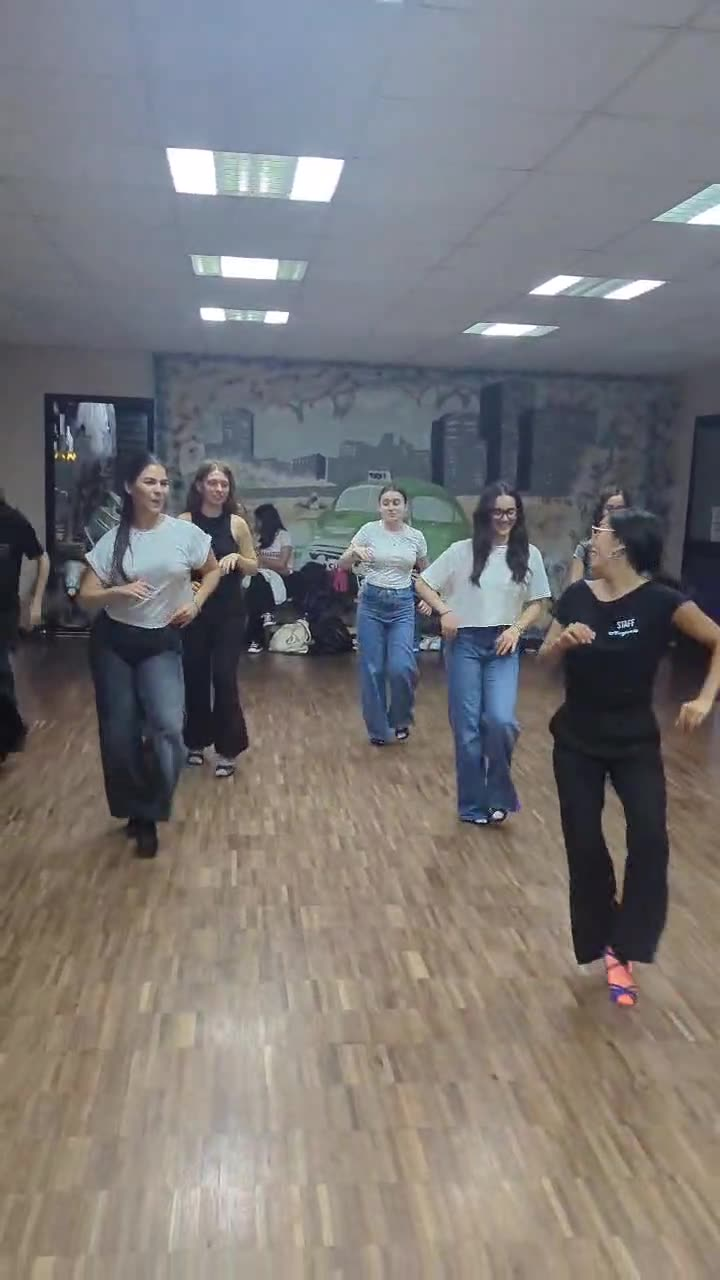
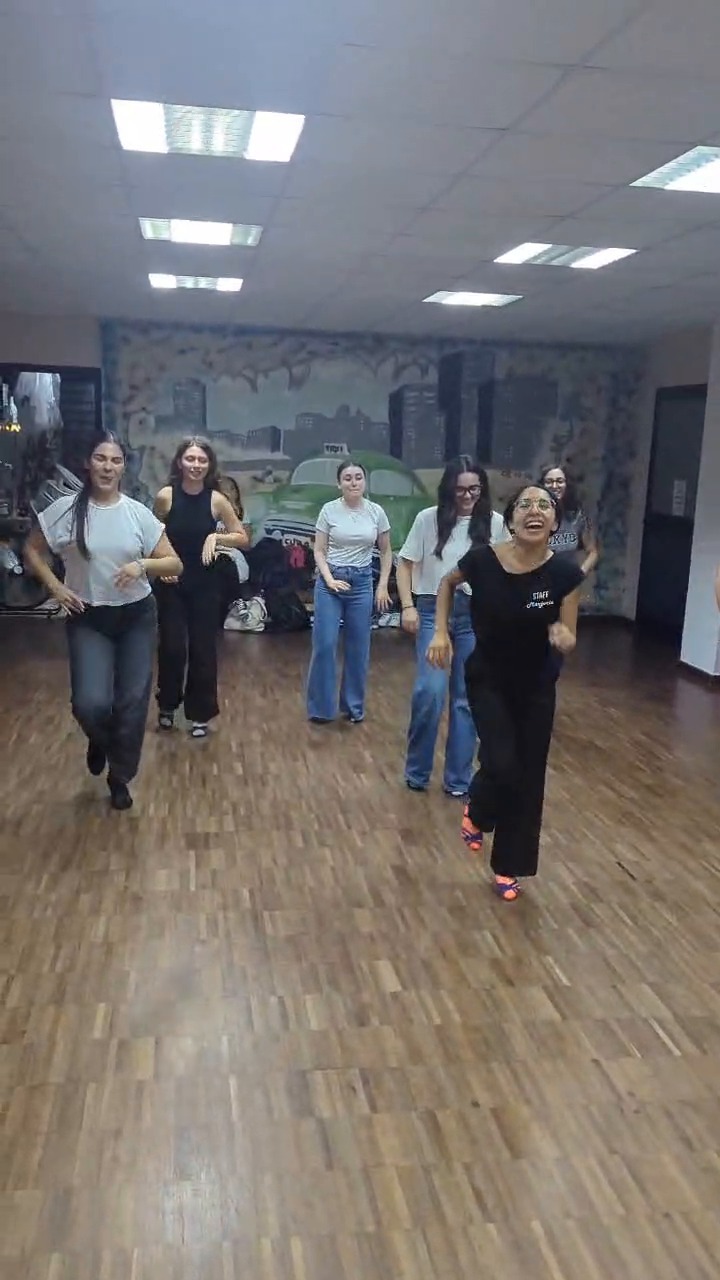
Copertine dei video più nitide: fotogramma più definito, qualità alta
Claude-Session: https://claude.ai/code/session_01MxGryzPcSJfMhEmVpwS4DS

diff --git a/index.html b/index.html
@@ -373,13 +373,13 @@ footer a{color:var(--gold)}
       <div class="vslider rv" aria-roledescription="carousel" aria-label="Video delle lezioni">
         <div class="vtrack" id="vtrack">
           <div class="slide" role="group" aria-roledescription="slide" aria-label="Video 1 di 3">
-            <div class="phone"><video controls playsinline preload="none" poster="/video/lezione-poster.jpg" width="720" height="1280"><source src="/video/lezione.mp4" type="video/mp4"></video></div>
+            <div class="phone"><video controls playsinline preload="none" poster="/video/lezione-poster.jpg?v=2" width="720" height="1280"><source src="/video/lezione.mp4" type="video/mp4"></video></div>
           </div>
           <div class="slide" role="group" aria-roledescription="slide" aria-label="Video 2 di 3">
-            <div class="phone"><video controls playsinline preload="none" poster="/video/lezione-2-poster.jpg" width="720" height="1280"><source src="/video/lezione-2.mp4" type="video/mp4"></video></div>
+            <div class="phone"><video controls playsinline preload="none" poster="/video/lezione-2-poster.jpg?v=2" width="720" height="1280"><source src="/video/lezione-2.mp4" type="video/mp4"></video></div>
           </div>
           <div class="slide" role="group" aria-roledescription="slide" aria-label="Video 3 di 3">
-            <div class="phone"><video controls playsinline preload="none" poster="/video/lezione-3-poster.jpg" width="720" height="1280"><source src="/video/lezione-3.mp4" type="video/mp4"></video></div>
+            <div class="phone"><video controls playsinline preload="none" poster="/video/lezione-3-poster.jpg?v=2" width="720" height="1280"><source src="/video/lezione-3.mp4" type="video/mp4"></video></div>
           </div>
         </div>
         <div class="vnav">
